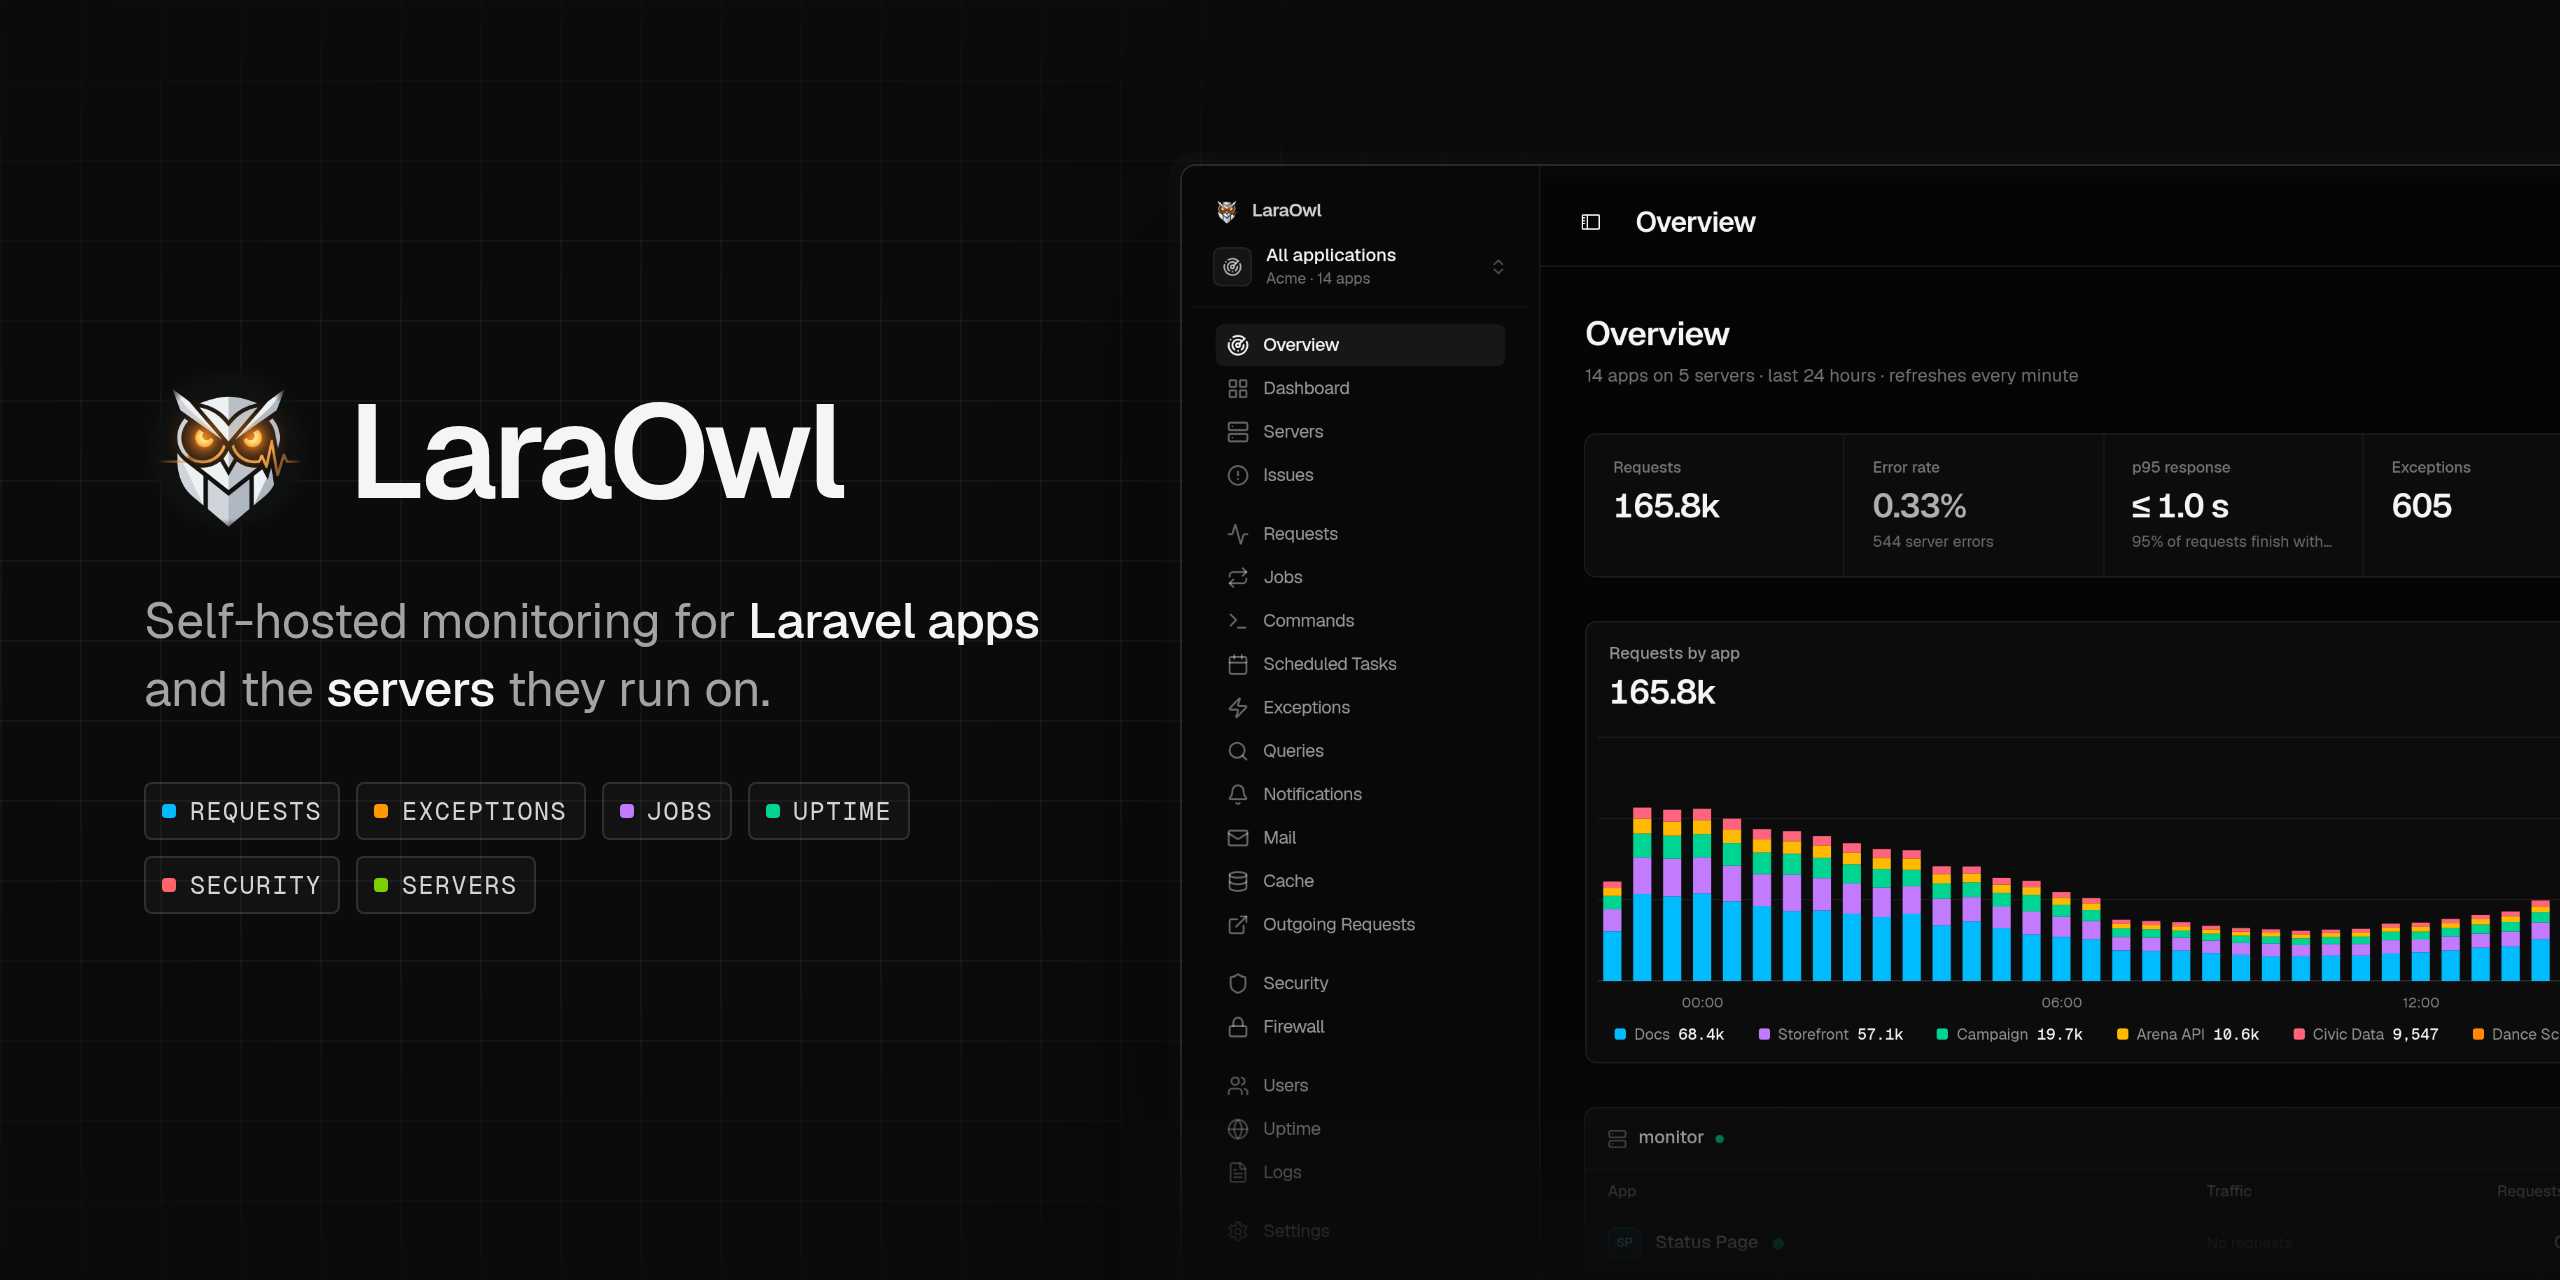
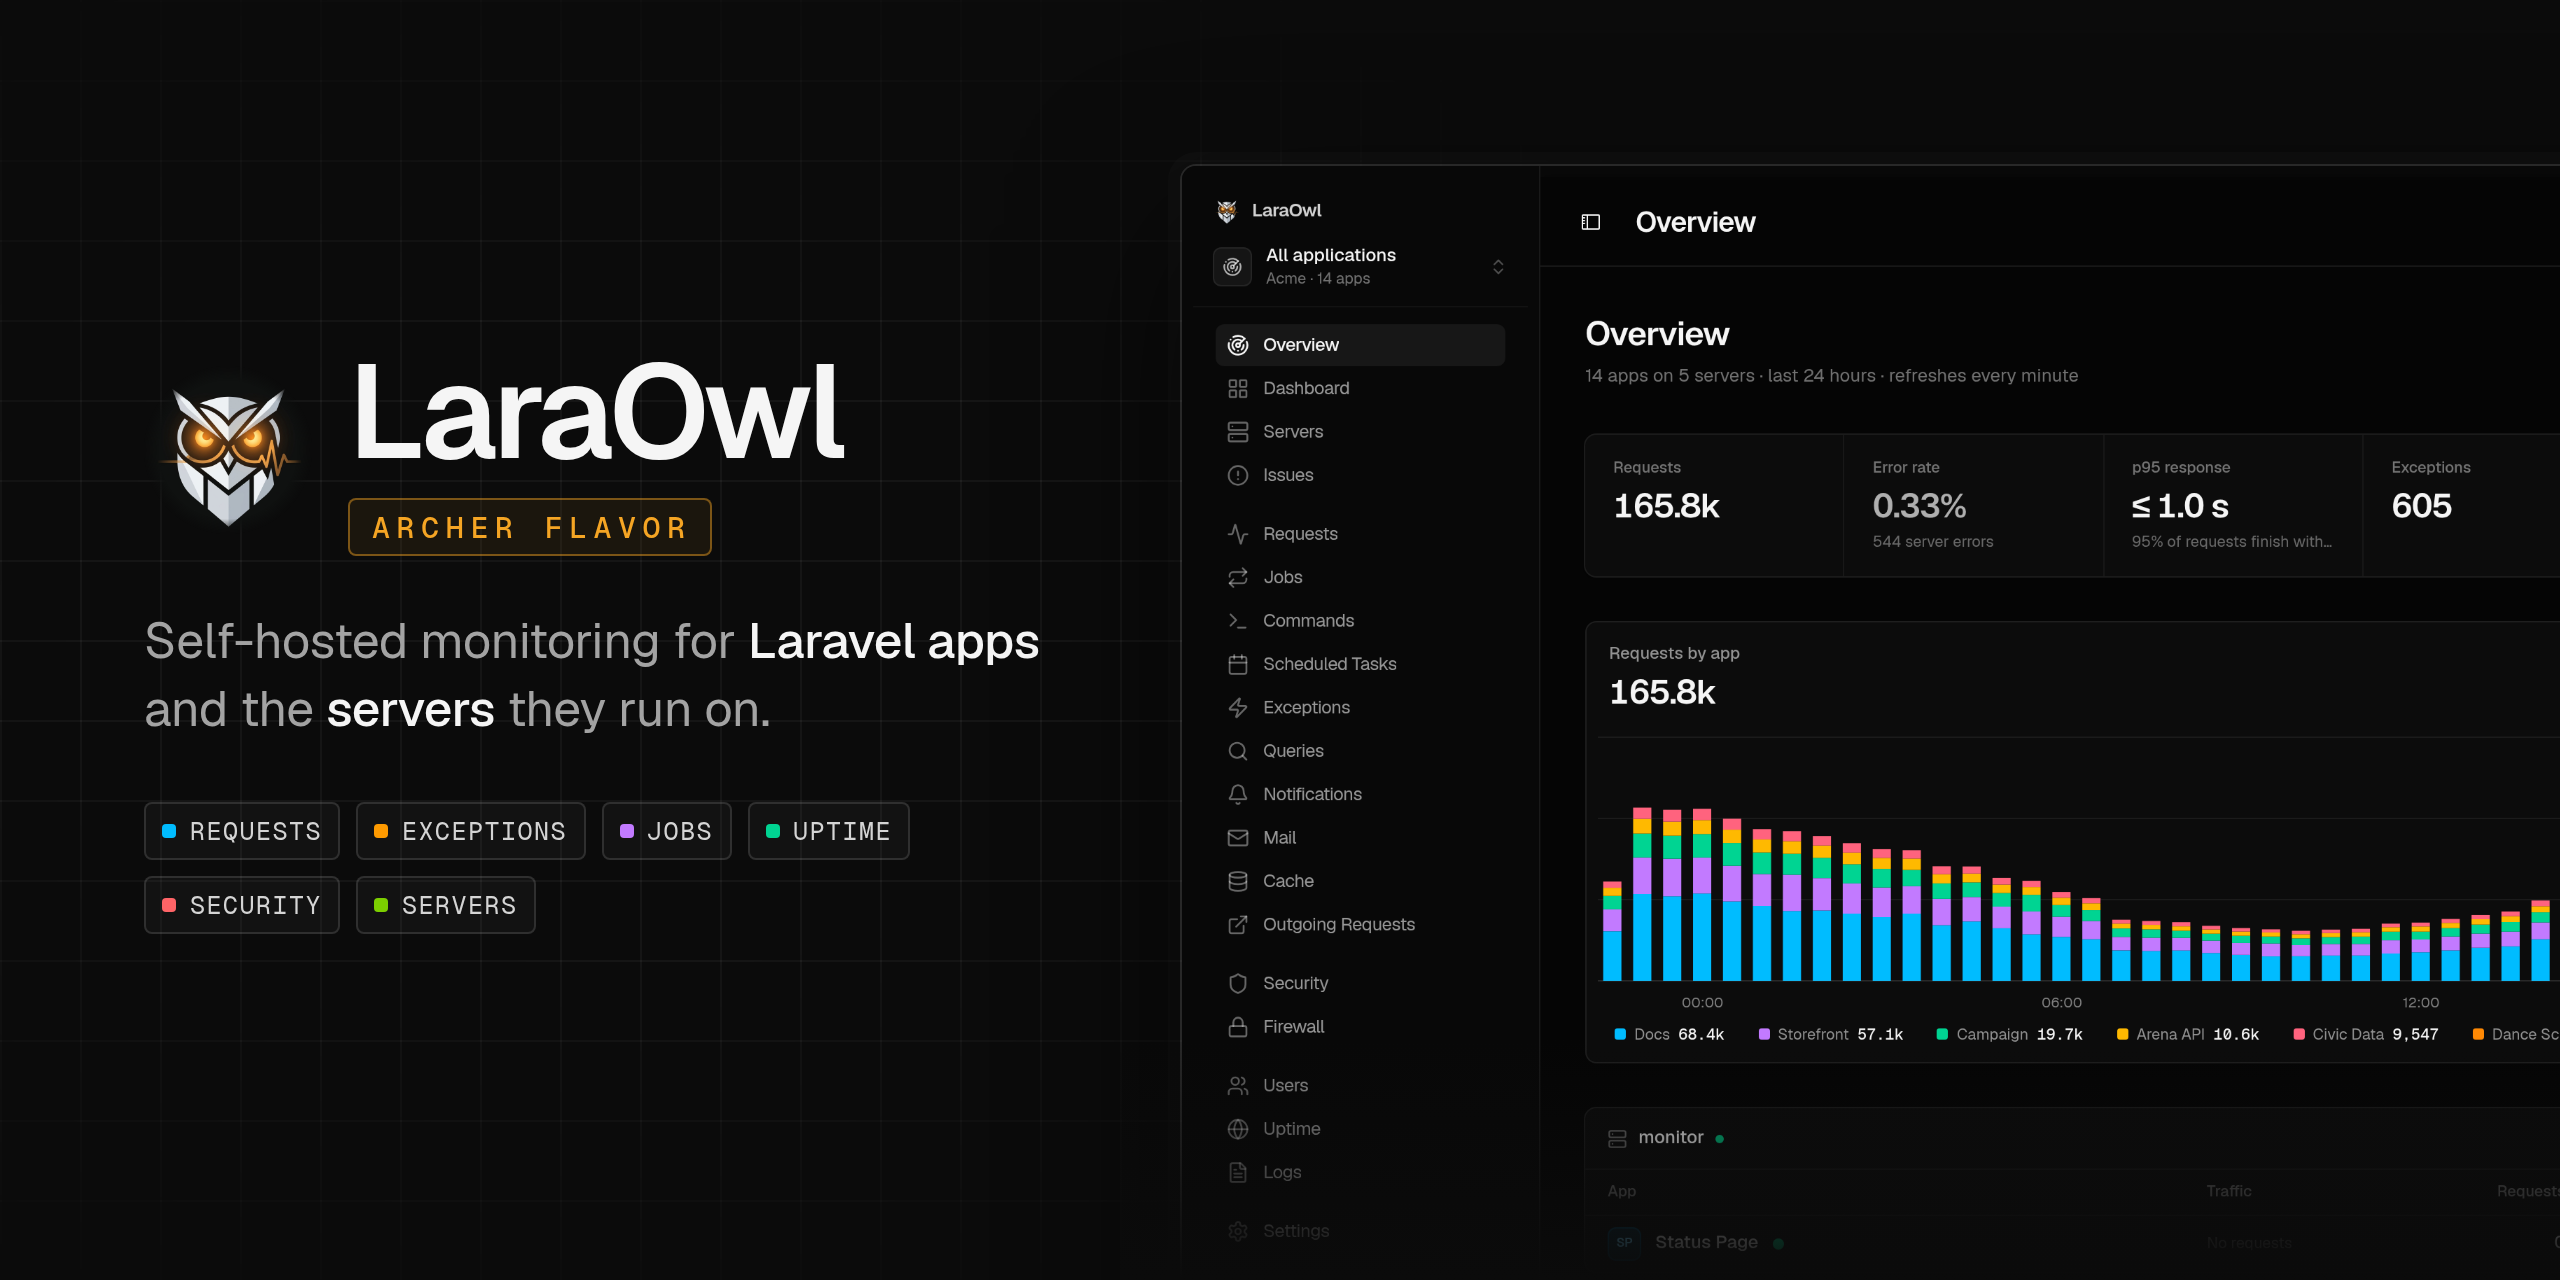
README: LaraOwl, Archer flavor, and everything it changes
Title, banner and NOTICE name this the Archer flavor of LaraOwl, and
"What the Archer flavor changes" now leads the README, grouped by area:
servers next to the apps, ingest that holds up on a small box, quieter
security alerts, the interface and operations.

Claude-Session: https://claude.ai/code/session_017e4sVychtc6c7VgZMfWUqM

Changed region(s): [[0.125, 0.2812, 0.3438, 0.4375], [0.0625, 0.4688, 0.4062, 0.5625], [0.0625, 0.625, 0.3438, 0.7188]]

diff --git a/README.md b/README.md
@@ -1,15 +1,18 @@
 <p align="center">
-  <img src="art/banner.png" alt="LaraOwl: self-hosted monitoring for Laravel apps and the servers they run on" width="100%">
+  <img src="art/banner.png" alt="LaraOwl, Archer flavor: self-hosted monitoring for Laravel apps and the servers they run on" width="100%">
+</p>
+
+<h1 align="center">LaraOwl · Archer flavor</h1>
+
+<p align="center">
+  <b>The Archer flavor of <a href="https://github.com/laraowl/laraowl">LaraOwl</a>: self-hosted monitoring for Laravel apps and the servers they run on.</b><br>
+  Rebuilt to watch many apps on a few small servers: server metrics next to the apps, one overview for all of them,<br>
+  ingest that holds up on 1 vCPU, security alerts that stay quiet until they matter, and a sharper interface.
 </p>
 
 <p align="center">
-  <b>Self-hosted monitoring for Laravel apps and the servers they run on.</b><br>
-  Requests, exceptions, queries, jobs, uptime, security and server health for every app you run, on your own box.
-</p>
-
-<p align="center">
+  <a href="#what-the-archer-flavor-changes">What the Archer flavor changes</a> •
   <a href="#what-it-watches">What it watches</a> •
-  <a href="#whats-different-in-this-version">What's different</a> •
   <a href="#install">Install</a> •
   <a href="#connect-an-app">Connect an app</a> •
   <a href="#monitor-a-server">Monitor a server</a> •
@@ -39,6 +42,57 @@
   </tr>
 </table>
 
+## What the Archer flavor changes
+
+The Archer flavor started from LaraOwl on 3 October 2026 and runs in production for 14 apps on five servers. Everything below is new or reworked compared with the original.
+
+### Servers next to the apps
+
+- **Server monitoring.** A one-file bash agent reports CPU, memory, swap, every disk, load and uptime each minute. CPU is the average since the last run, not a one-second sample that catches the cron burst.
+- **Servers pages.** An overview of every machine, and a detail page with CPU, memory, load and disk over time. Each server has its own token.
+- **Apps know their server.** Apps are linked to the server their records come from, automatically. The app switcher groups apps by server, and each app's settings have a server picker.
+- **One overview for the whole team.** Every app on a single page, grouped by server, with live server load. It shows requests by app over time, error rate, p95, exceptions and failed jobs. Signing in lands there.
+
+### Ingest that holds up on a small box
+
+- **Answers at once.** The endpoint checks a cached token, appends the batch to a Redis buffer and returns `202`.
+- **Writes in bulk.** One queued job merges each app's batches into a single bulk write, with plain rows in one insert. In benchmarks on Postgres this was 5× faster, with 4.6× less PHP CPU and 5.8× fewer queries than storing each batch as it arrives.
+- **Survives trouble.**
+  - Backlog: if it grows, the endpoint returns `503` with `Retry-After`.
+  - Database: if it goes away, batches wait and are retried in order.
+  - Bad batch: one that fails on its own is set aside, and `laraowl:ingest:replay` puts it back in line.
+  - `laraowl:ingest:status` shows the backlog.
+- **Load-tested** on a 1 vCPU, 2 GB server: 2,000 batches at 40 per second, every one accepted and stored.
+- **Accurate timestamps.** Every record keeps the moment it arrived, so charts stay right even when processing runs behind.
+- **Raw detail only where it's useful.** Rollups count every record, so charts and totals stay exact. Raw query, cache and outgoing-call rows, most of what an app sends, are kept for the requests worth opening (slow, failed or with an exception) and for a fixed sample of the rest.
+- **Indexed lookups.** Top users and server linking use indexes instead of scanning JSON or the whole records table.
+
+### Security alerts that stay quiet until they matter
+
+- **One issue per IP address.** It escalates as the score rises, and reopens if the address comes back after being resolved. Ignored stays ignored.
+- **Quiet issues resolve themselves.** An address that has sent nothing suspicious for a day is resolved, with a note saying why.
+- **Stale pages aren't scans.** Missing scripts, styles and images from a stale page don't count as a directory scan.
+- **No false matches on your own URLs or headers.** An app's own URLs, and headers like a link-preview bot's user agent, are no longer read as remote file includes.
+- **Audits start from a baseline.** The first file audit records the baseline instead of raising an alarm.
+- **Scanner detection works.** Scanner user agents (sqlmap, nikto and others) are actually detected; the check never ran before.
+
+### A sharper interface
+
+- **New look.** A full redesign: Geist and Geist Mono, a tight corner scale, a compact sidebar and calmer type.
+- **One chart kit everywhere.**
+  - A shared crosshair, a finer grid, and time ticks in local time.
+  - p50/p95/max per point, and a latency histogram with the slow tail marked.
+  - Server charts match app charts.
+- **Legends switch series on and off.** Click to hide, alt-click to show only one; the headline and totals follow.
+- **Periods and dates.** The period selector slides and prefetches the next period. Custom ranges use a two-month calendar with presets. Dates read dd/mm/yyyy.
+- **Motion with restraint.** Panels and charts animate in, figures slide when they change, and pages dim while loading. All of it respects reduced-motion settings.
+
+### Operations
+
+- **Deploys on Laravel Forge that stay light.** [`deploy.sh`](deploy.sh) makes Forge's Deploy button do everything on the server. It reuses the last frontend build and `vendor/` when nothing they depend on changed, so most deploys take about 16 seconds. Everything runs under `nice`, and it reloads PHP-FPM so each release starts with a clean code cache. From a laptop, `./deploy.sh` tests, pushes, deploys and checks in one command.
+- **Uptime checks identify themselves as a bot**, so monitored apps don't count them as visitors.
+- **Updates come from this repository**, not the original project's releases, which would overwrite these changes.
+
 ## What it watches
 
 Add one Composer package to a Laravel app and LaraOwl records what it does:
@@ -58,28 +112,9 @@ Add one Composer package to a Laravel app and LaraOwl records what it does:
 
 Alerts go to Slack, Discord, Telegram, email or any webhook, for new exceptions, error spikes, slow routes, downtime and missed heartbeats. Several teams can share one instance, each with its own apps, servers and members. AI agents can query it over MCP.
 
-## What's different in this version
-
-This repository started from [LaraOwl](https://github.com/laraowl/laraowl) on 3 October 2026 and has gone its own way since, running in production for 14 apps on five servers. The main changes:
-
-- **Server monitoring.** A bash agent reports each machine's CPU, memory, swap, disk and load every minute. Servers get an overview and a detail page, and every app is linked to the server it runs on automatically.
-- **One overview for the whole team.** Every app on a single page, grouped by server, with requests by app over time, error rate, p95, exceptions and failed jobs.
-- **A redesigned interface.** Geist type, a tight corner scale and one shared chart kit: a crosshair across charts, p50/p95/max per point, latency histograms, legends that switch series on and off, a period selector that prefetches, and a two-month calendar for custom ranges.
-- **Ingest that answers at once.** The endpoint appends each batch to a Redis buffer and returns `202`. One queued job merges each app's batches into a single bulk write. If the backlog grows, the endpoint returns `503` with `Retry-After`; if the database goes away, batches wait and are retried; a batch that fails on its own is set aside to replay later. In benchmarks on Postgres this was 5× faster, with 4.6× less PHP CPU and 5.8× fewer queries than storing each batch as it arrives. On a 1 vCPU, 2 GB server it took 2,000 batches at 40 per second without losing one.
-- **Raw detail only where it's useful.** Rollups count every record, so charts and totals stay exact. Raw query, cache and outgoing-call rows, most of what an app sends, are kept for the requests worth opening (slow, failed or with an exception) and for a fixed sample of the rest.
-- **Security alerts that don't cry wolf.**
-  - One issue per IP address, which escalates as its score rises and reopens if the address comes back.
-  - Issues from addresses that stay quiet for a day resolve themselves.
-  - Missing scripts and images from a stale page don't count as a directory scan.
-  - An app's own URLs aren't treated as remote file includes.
-  - The first file audit sets the baseline instead of raising an alarm.
-  - Scanner user agents (sqlmap, nikto and others) are actually detected.
-- **Deploys on Laravel Forge that stay light.** [`deploy.sh`](deploy.sh) builds each zero-downtime release on the server, reusing the previous frontend build and `vendor/` when nothing they depend on changed: about 16 seconds for most deploys. It then reloads PHP-FPM, so each new release starts with a clean code cache.
-- **Uptime checks identify themselves as a bot**, so monitored apps don't count them as visitors.
-
 ## Install
 
-Requirements: PHP 8.3+, Composer, Node 20+, Redis (for the ingest buffer) and a database. Postgres is what this version runs in production; SQLite works for trying it out.
+Requirements: PHP 8.3+, Composer, Node 20+, Redis (for the ingest buffer) and a database. Postgres is what the Archer flavor runs in production; SQLite works for trying it out.
 
 ```bash
 git clone https://github.com/danielarcher/laraowl.git
@@ -107,7 +142,7 @@ Check the ingest buffer at any time with `php artisan laraowl:ingest:status`.
 <details>
 <summary>Docker</summary>
 
-The Docker setup comes from the original project: `docker-compose.yaml` runs the app, Horizon, Reverb, Caddy, the database and Redis. Copy `.env.prod` to `.env`, set `APP_URL`, `APP_HOSTNAME` and the `REVERB_*` keys, then run `docker compose up -d --build`. This version is developed and run on Laravel Forge, so that is the path covered below.
+The Docker setup comes from the original project: `docker-compose.yaml` runs the app, Horizon, Reverb, Caddy, the database and Redis. Copy `.env.prod` to `.env`, set `APP_URL`, `APP_HOSTNAME` and the `REVERB_*` keys, then run `docker compose up -d --build`. The Archer flavor is developed and run on Laravel Forge, so that is the path covered below.
 
 </details>
 
@@ -177,6 +212,6 @@ The scheduler queues a drain every minute in case a worker died mid-job. Batches
 
 ## Credits and license
 
-LaraOwl was created by Abdelmjid Saber and the contributors to [laraowl/laraowl](https://github.com/laraowl/laraowl). Its documentation at [laraowl.mintlify.site](https://laraowl.mintlify.site) covers the parts this version shares with it.
+LaraOwl was created by Abdelmjid Saber and the contributors to [laraowl/laraowl](https://github.com/laraowl/laraowl). Its documentation at [laraowl.mintlify.site](https://laraowl.mintlify.site) covers the parts the Archer flavor shares with it.
 
-This version is maintained by [Daniel Archer](https://github.com/danielarcher). It is licensed under the [Apache License 2.0](LICENSE), like the original. [NOTICE](NOTICE) records the attribution, and the git history records every change.
+The Archer flavor is maintained by [Daniel Archer](https://github.com/danielarcher). It is licensed under the [Apache License 2.0](LICENSE), like the original. [NOTICE](NOTICE) records the attribution, and the git history records every change.
